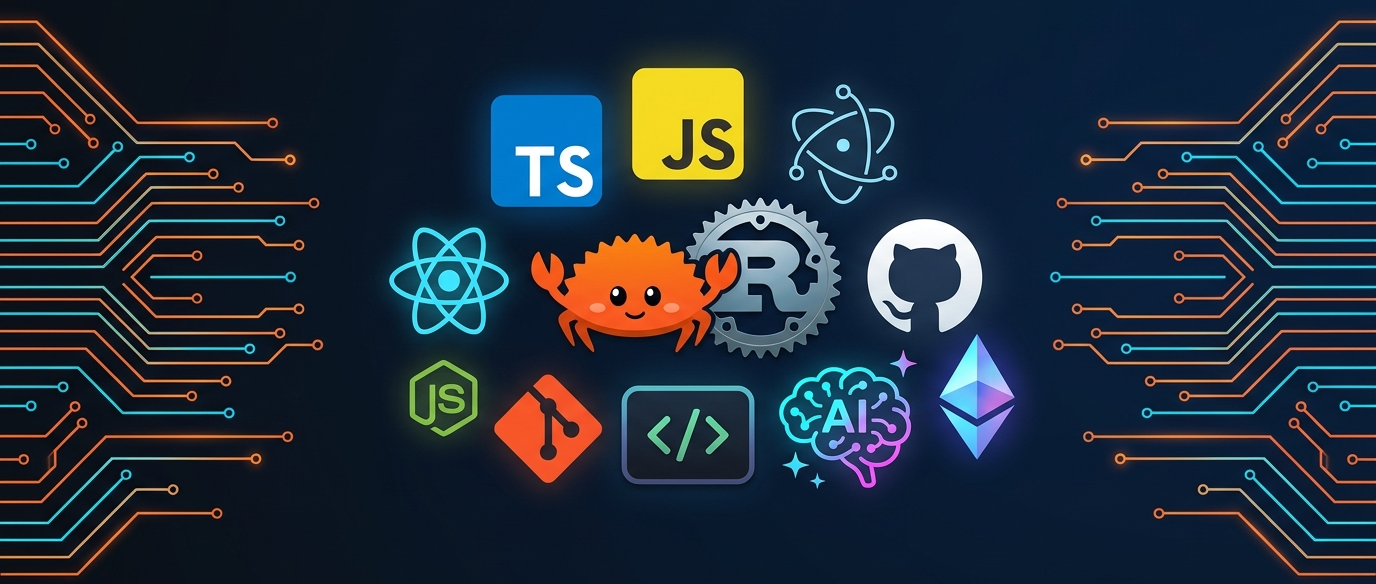
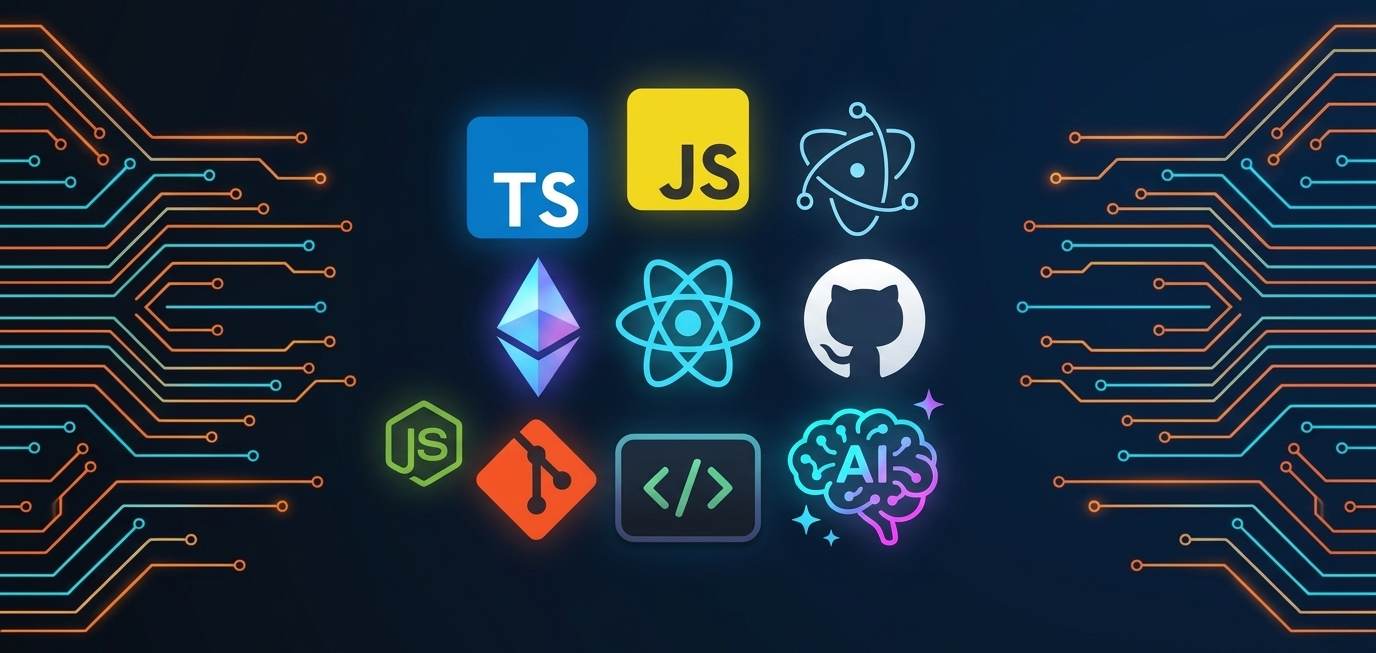
Remove Rust, rank ring, and badge row; update Web3 to Blockchain

Changed region(s): [[0.0, 0.0308, 1.0, 1.0], [0.1875, 0.1849, 0.2188, 0.2158]]

diff --git a/README.md b/README.md
@@ -4,36 +4,24 @@
 
 <p align="center">
   <a href="https://github.com/buynao">
-    <img src="https://readme-typing-svg.demolab.com?font=Fira+Code&weight=500&size=22&pause=1200&color=36BCF7&center=true&vCenter=true&width=520&lines=Hi%2C+I'm+Law;Frontend+%C2%B7+AI+%C2%B7+Web3+%C2%B7+Rust;Build%2C+Learn+%26+Share" alt="Typing SVG" />
+    <img src="https://readme-typing-svg.demolab.com?font=Fira+Code&weight=500&size=22&pause=1200&color=36BCF7&center=true&vCenter=true&width=520&lines=Hi%2C+I'm+Law;Frontend+%C2%B7+AI+%C2%B7+Blockchain;Build%2C+Learn+%26+Share" alt="Typing SVG" />
   </a>
 </p>
 
 <p align="center">
   <a href="https://github.com/buynao">
     <picture>
-      <source media="(prefers-color-scheme: dark)" srcset="https://github-readme-stats.vercel.app/api?username=buynao&show_icons=true&count_private=true&theme=github_dark&hide_border=false" />
-      <source media="(prefers-color-scheme: light)" srcset="https://github-readme-stats.vercel.app/api?username=buynao&show_icons=true&count_private=true&theme=default&hide_border=false" />
-      <img src="https://github-readme-stats.vercel.app/api?username=buynao&show_icons=true&count_private=true" alt="Law's GitHub Stats" />
+      <source media="(prefers-color-scheme: dark)" srcset="https://github-readme-stats.vercel.app/api?username=buynao&show_icons=true&count_private=true&hide_rank=true&theme=github_dark&hide_border=false" />
+      <source media="(prefers-color-scheme: light)" srcset="https://github-readme-stats.vercel.app/api?username=buynao&show_icons=true&count_private=true&hide_rank=true&theme=default&hide_border=false" />
+      <img src="https://github-readme-stats.vercel.app/api?username=buynao&show_icons=true&count_private=true&hide_rank=true" alt="Law's GitHub Stats" />
     </picture>
   </a>
 </p>
 
 <p align="center">
-  <a href="https://github.com/buynao?tab=repositories">
-    <img src="https://img.shields.io/github/stars/buynao?affiliations=OWNER&style=for-the-badge&logo=github&label=Stars&color=2f80ed" alt="GitHub Stars" />
-  </a>
-  <a href="https://github.com/buynao">
-    <img src="https://img.shields.io/badge/GitHub-buynao-24292F?style=for-the-badge&logo=github&logoColor=white" alt="GitHub" />
-  </a>
-  <a href="mailto:307990588@qq.com">
-    <img src="https://img.shields.io/badge/Email-Contact-EA4335?style=for-the-badge&logo=gmail&logoColor=white" alt="Email" />
-  </a>
+  我是 <a href="https://github.com/buynao">Law</a>，来自武汉的开发者。关注前端、AI 与区块链，热爱构建交互式学习工具与有趣的产品。
 </p>
 
 <p align="center">
-  我是 <a href="https://github.com/buynao">Law</a>，来自武汉的开发者。关注前端、AI、Web3 与 Rust，热爱构建交互式学习工具与有趣的产品。
-</p>
-
-<p align="center">
-  I'm <a href="https://github.com/buynao">Law</a>, a developer based in Wuhan. Passionate about Frontend, AI, Web3, and Rust — building interactive learning tools and sharing along the way.
+  I'm <a href="https://github.com/buynao">Law</a>, a developer based in Wuhan. Passionate about Frontend, AI, and Blockchain — building interactive learning tools and sharing along the way.
 </p>
